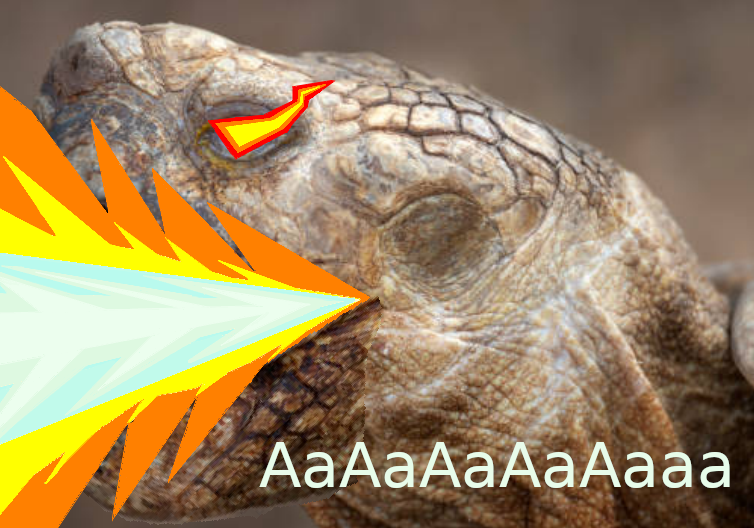
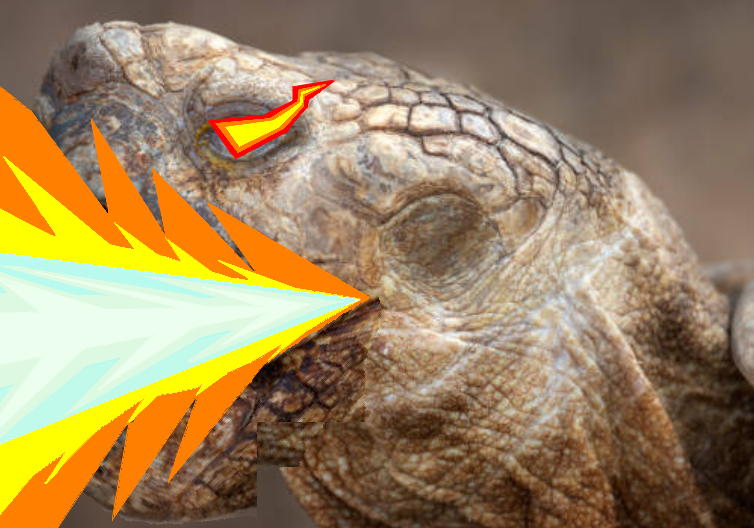
Remove embedded text from turtle sprite images
Used ImageMagick to patch sprites:
- Extracted clean patch from turtle_head_mouth_open_22.png (66% width × 20% height)
- Applied patch to all 3 frames of sprite sheet to cover embedded text
- Patched individual image as well
- Kept original images as backups

UI improvements:
- Removed "Loading Game..." text (no longer needed)
- Turtle now centered properly without position offset

Now only animated text overlays are shown, not embedded sprite text! 🐢

🤖 Generated with [Claude Code](https://claude.com/claude-code)

Changed region(s): [[0.3355, 0.7879, 0.9761, 0.9697]]

diff --git a/src/components/GameCanvas.tsx b/src/components/GameCanvas.tsx
@@ -100,18 +100,7 @@ export const GameCanvas: React.FC<GameCanvasProps> = ({ onGameReady }) => {
 
   return (
     <div className="game-canvas-container" ref={containerRef}>
-      {loading && (
-        <div style={{
-          position: 'absolute',
-          top: '50%',
-          left: '50%',
-          transform: 'translate(-50%, -50%)',
-          color: 'white',
-          fontSize: '24px'
-        }}>
-          Loading Game...
-        </div>
-      )}
+      {/* Phaser canvas will be injected here */}
     </div>
   );
 };
